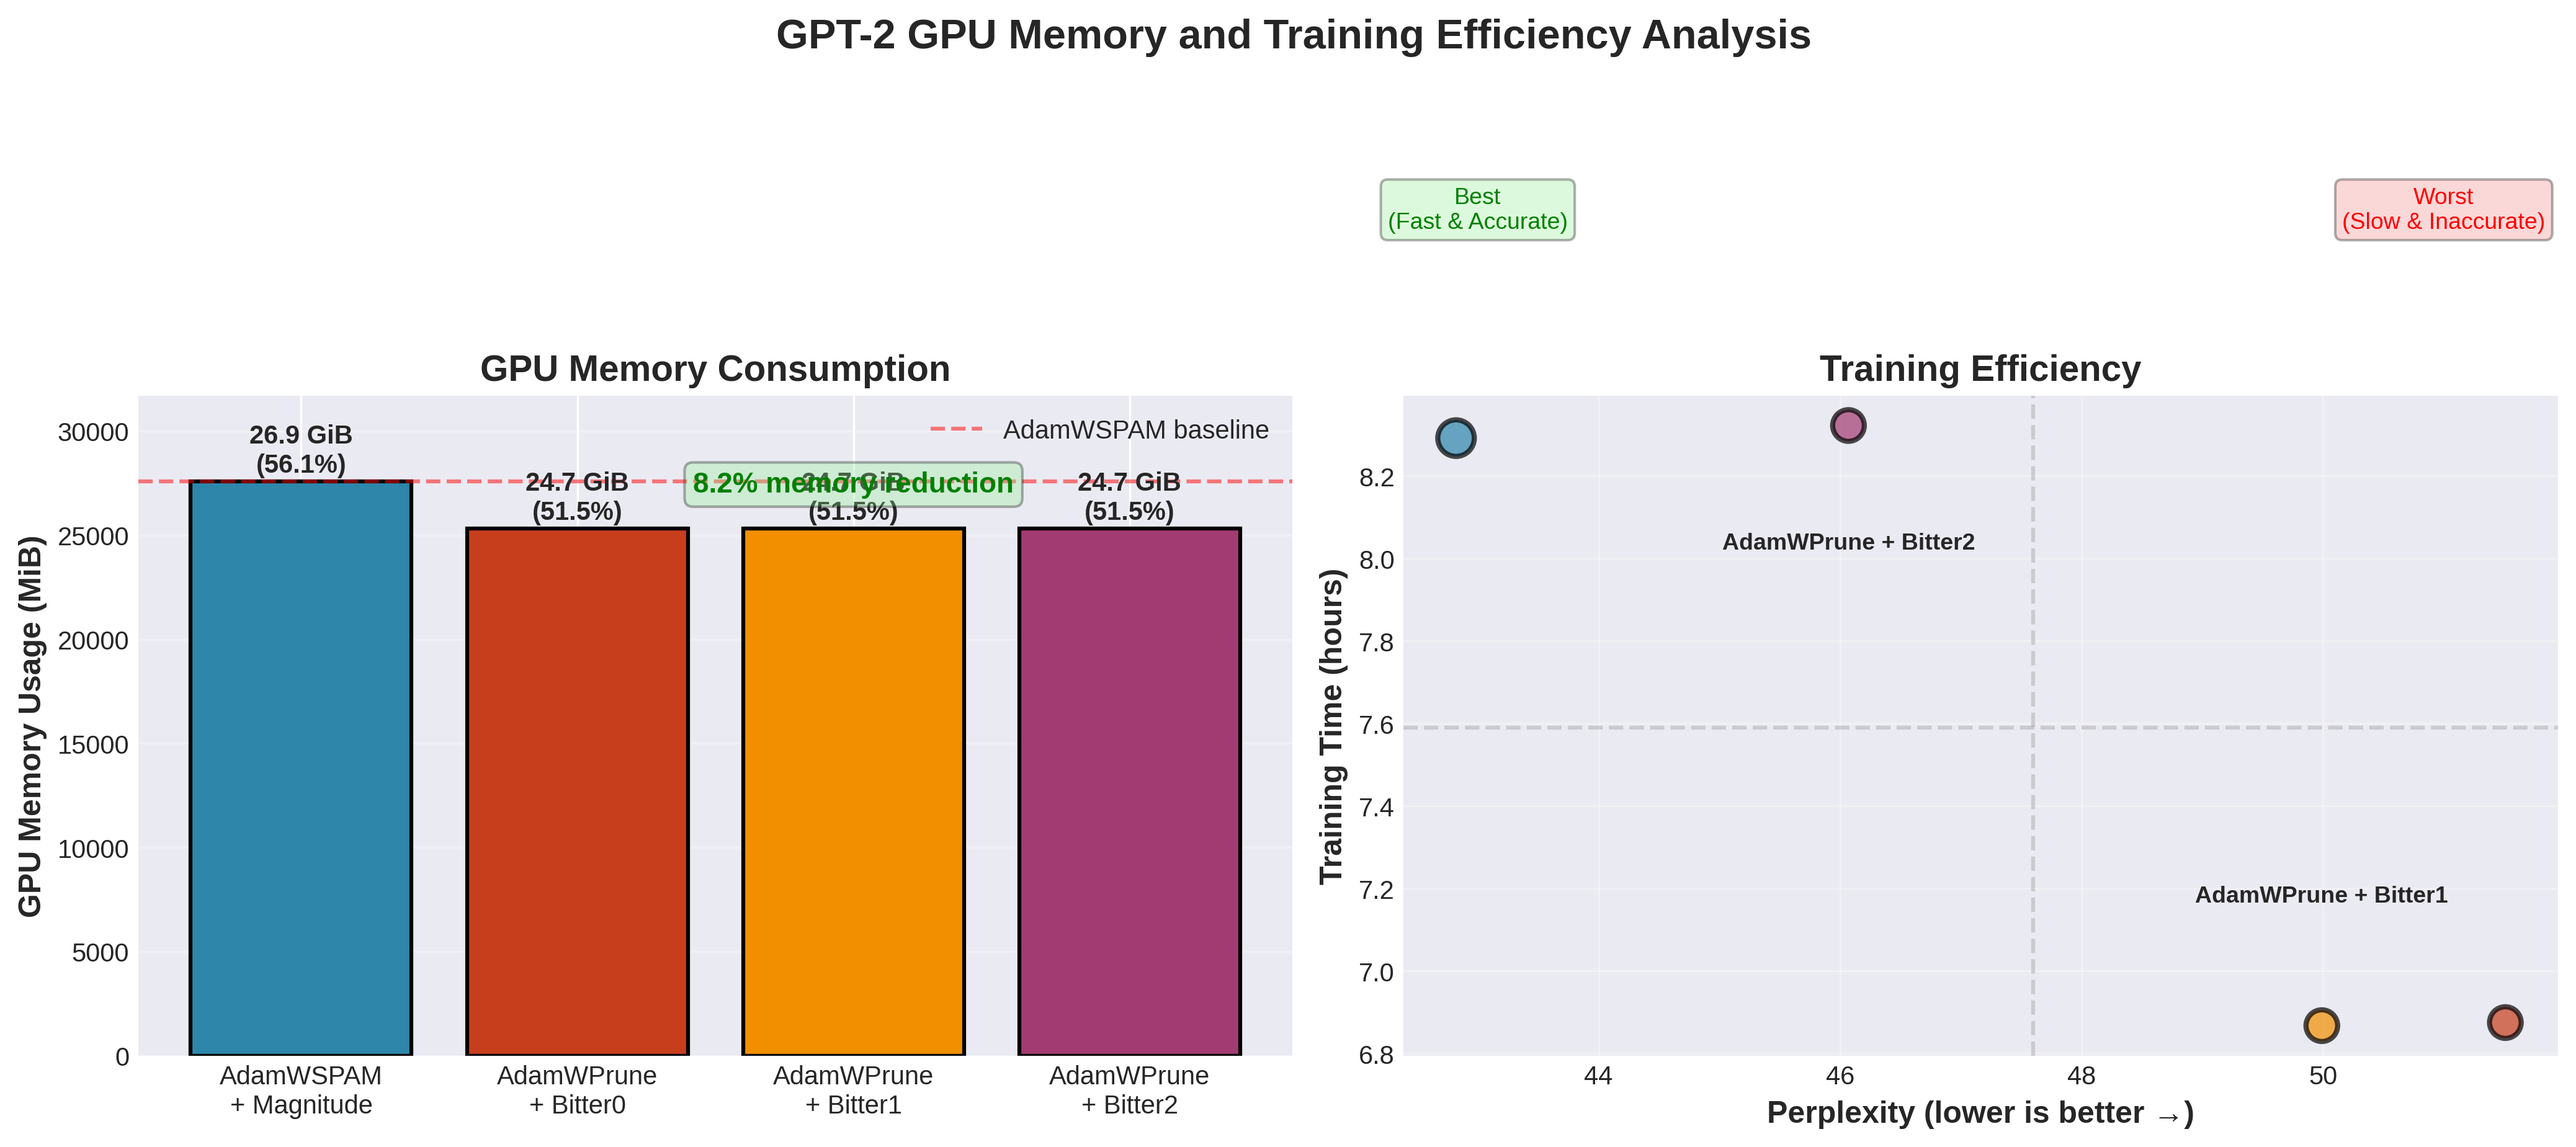
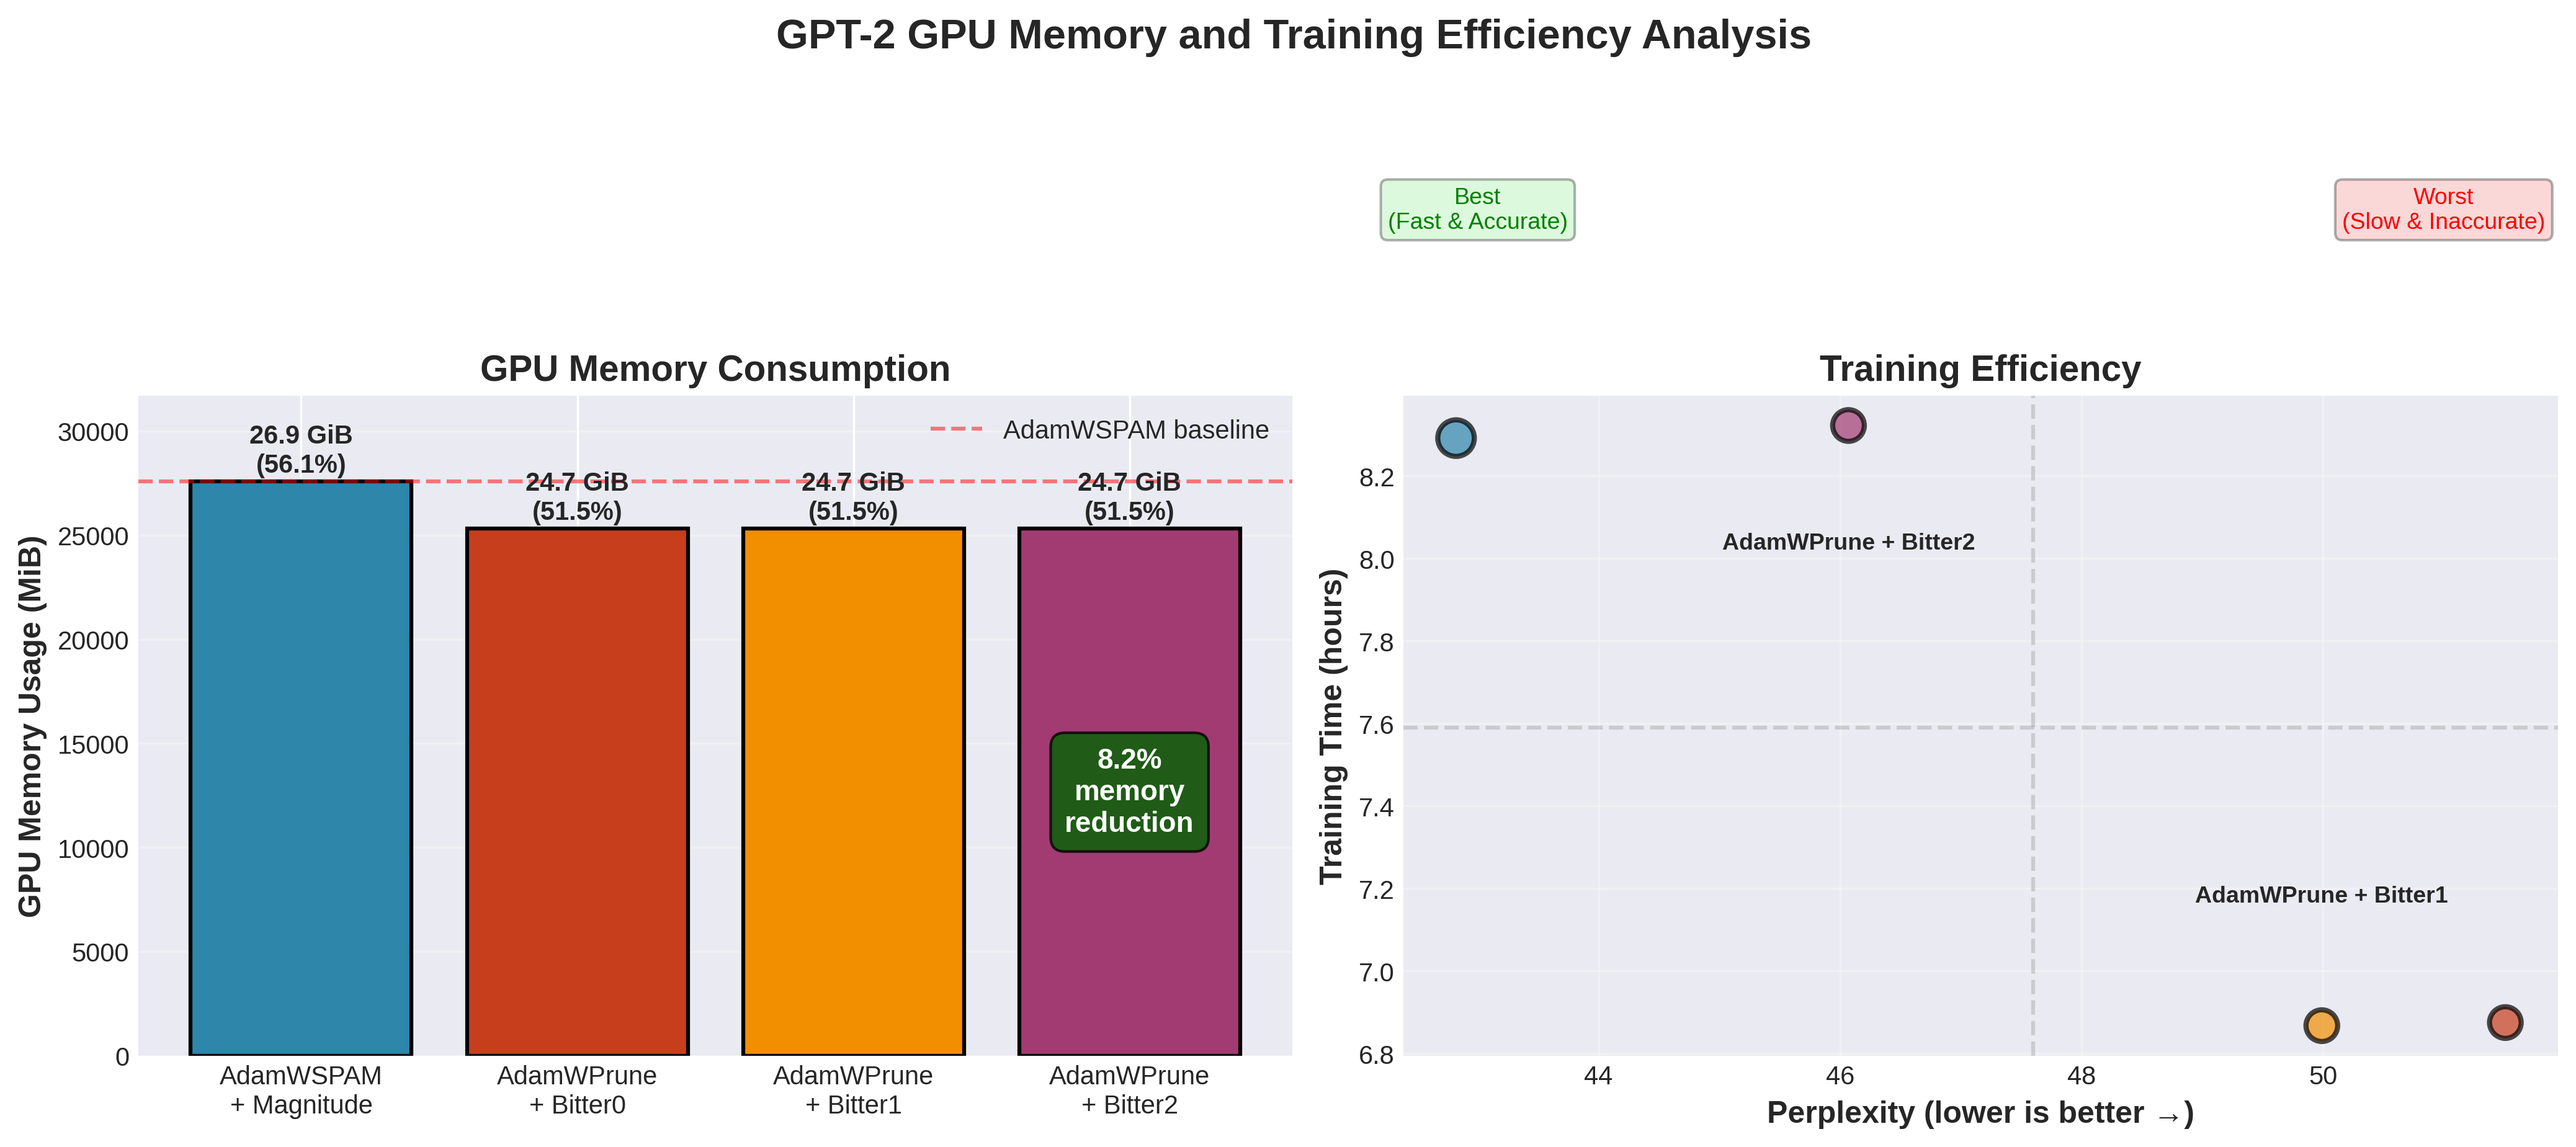
scripts/generate_gpt2_memory_graph.py: fix memory reduction text placement
Moved the "8.2% memory reduction" text from overlapping with the red
baseline to inside the Bitter2 bar (best AdamWPrune variant):

- Positioned at center of Bitter2 bar (index 3)
- White text on dark green background for high contrast
- Multi-line format for better fit inside bar
- Removed overlap with red dashed baseline

The text is now clearly visible and doesn't interfere with any graph
elements.

Generated-by: Claude AI

Changed region(s): [[0.4039, 0.6165, 0.4971, 0.7707], [0.2486, 0.4008, 0.4039, 0.4624]]

diff --git a/scripts/generate_gpt2_memory_graph.py b/scripts/generate_gpt2_memory_graph.py
@@ -69,9 +69,10 @@ def create_gpu_memory_comparison():
     # Highlight the memory savings
     ax1.axhline(y=memory_mib[0], color='red', linestyle='--', alpha=0.5, label='AdamWSPAM baseline')
     savings_pct = (1 - memory_mib[1]/memory_mib[0]) * 100
-    ax1.text(2, memory_mib[0] - 500, f'{savings_pct:.1f}% memory reduction',
-            fontsize=11, color='green', fontweight='bold', ha='center',
-            bbox=dict(boxstyle='round', facecolor='lightgreen', alpha=0.3))
+    # Place text inside Bitter2 bar (index 3) which has best perplexity among AdamWPrune
+    ax1.text(3, memory_mib[3]/2, f'{savings_pct:.1f}%\nmemory\nreduction',
+            fontsize=11, color='white', fontweight='bold', ha='center', va='center',
+            bbox=dict(boxstyle='round,pad=0.5', facecolor='darkgreen', alpha=0.8))
 
     ax1.set_ylabel('GPU Memory Usage (MiB)', fontsize=12, fontweight='bold')
     ax1.set_title('GPU Memory Consumption', fontsize=14, fontweight='bold')
